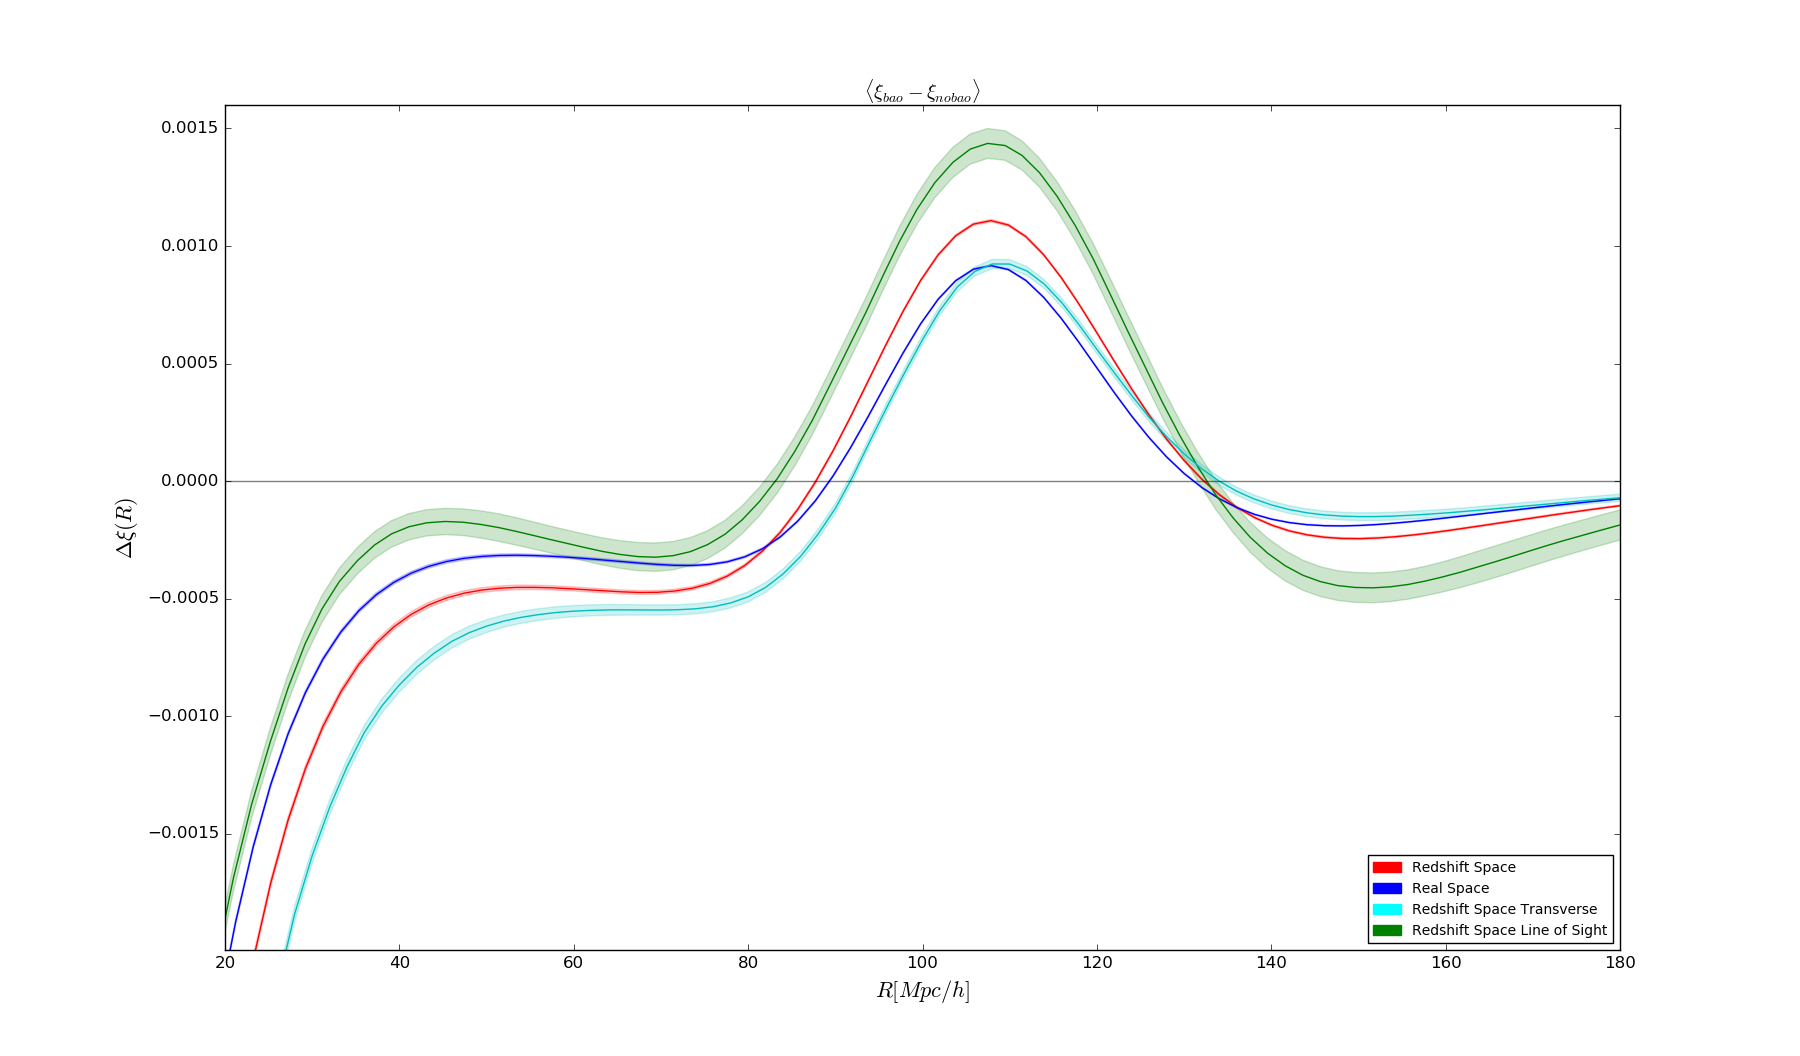
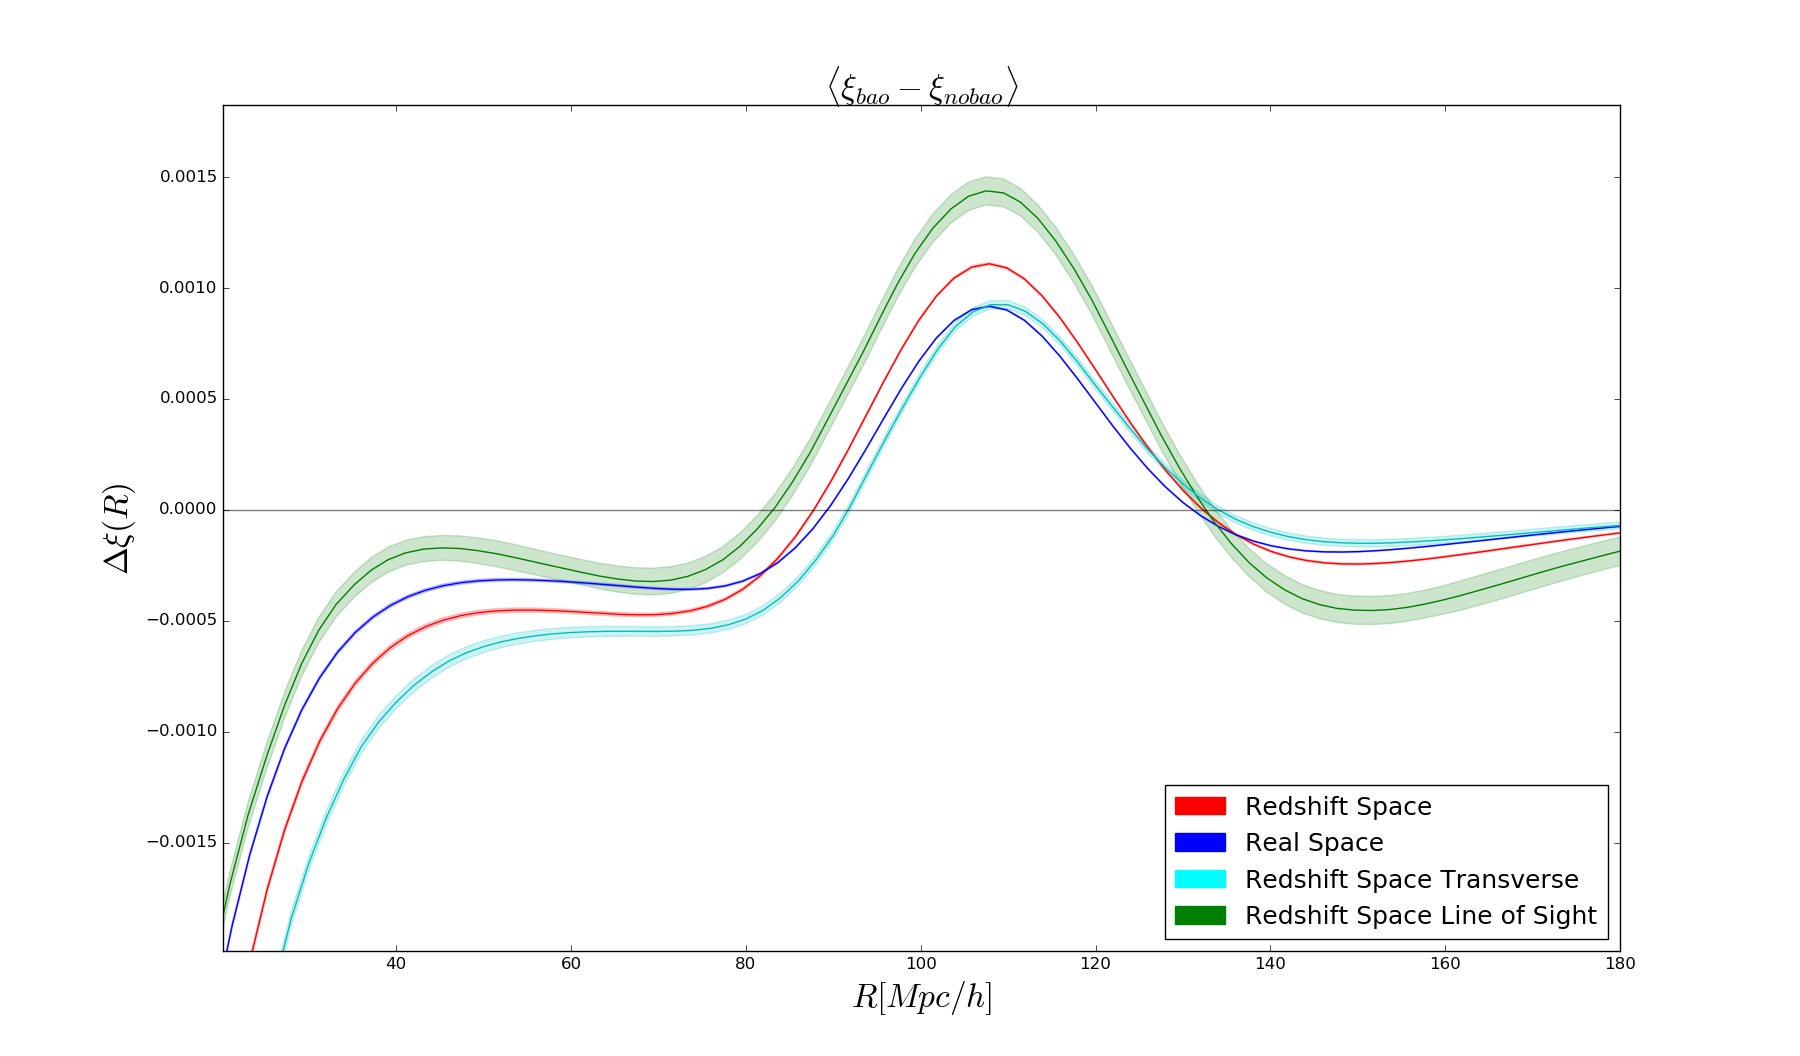
Plot update 2

diff --git a/render_script.py b/render_script.py
@@ -218,10 +218,10 @@ def meeting_plot_xidiff_unscale(folder):
     baoArtist  = plt.Line2D((0,1),(0,0), color='k', linestyle='-')
     nbaoArtist = plt.Line2D((0,1),(0,0), color='k', linestyle='--')
 
-    plt.xlabel("$R [Mpc/h]$", size = 16)
-    plt.ylabel("$\\Delta \\xi (R)$", size = 16)
-    plt.title("$\\langle\\xi_{bao}-\\xi_{no bao}\\rangle$")
-    plt.legend([rsdArtist, realArtist, transArtist, losArtist, baoArtist, nbaoArtist], ["Redshift Space", "Real Space", "Redshift Space Transverse", "Redshift Space Line of Sight"], prop={'size':10}, loc=4)
+    plt.xlabel("$R [Mpc/h]$", size = 24)
+    plt.ylabel("$\\Delta \\xi (R)$", size = 24)
+    plt.title("$\\langle\\xi_{bao}-\\xi_{no bao}\\rangle$", size=24)
+    plt.legend([rsdArtist, realArtist, transArtist, losArtist, baoArtist, nbaoArtist], ["Redshift Space", "Real Space", "Redshift Space Transverse", "Redshift Space Line of Sight"], prop={'size':18}, loc=4)
     plt.axis([20,180,-0.002,0.003])
     plt.show()
 
@@ -314,10 +314,10 @@ def meeting_plot_xidiff(folder):
     nbaoArtist = plt.Line2D((0,1),(0,0), color='k', linestyle='--')
 
     plt.axhline(y=0, xmin=0, xmax=200, color='k', alpha=0.5)
-    plt.xlabel("$R [Mpc/h]$", size = 16)
-    plt.ylabel("$R^2\\Delta\\xi (R)$", size = 16)
-    plt.title("$\\langle\\xi_{bao}-\\xi_{no bao}\\rangle$")
-    plt.legend([rsdArtist, realArtist, transArtist, losArtist, baoArtist, nbaoArtist], ["Redshift Space", "Real Space", "Redshift Space Transverse", "Redshift Space Line of Sight"], prop={'size':10}, loc =3)
+    plt.xlabel("$R [Mpc/h]$", size = 24)
+    plt.ylabel("$R^2\\Delta\\xi (R)$", size = 24)
+    plt.title("$\\langle\\xi_{bao}-\\xi_{no bao}\\rangle$", size = 24)
+    plt.legend([rsdArtist, realArtist, transArtist, losArtist, baoArtist, nbaoArtist], ["Redshift Space", "Real Space", "Redshift Space Transverse", "Redshift Space Line of Sight"], prop={'size':18}, loc =3)
     plt.axis([20,180,-20,20])
     plt.show()
 
@@ -430,4 +430,4 @@ if __name__ == "__main__":
 
     folder = "/gpfs/data/rhgk18/results/b1024_ng512_np1024"
 
-    meeting_plot_xidiff_unscale(folder)
+    meeting_plot_xidiff(folder)
